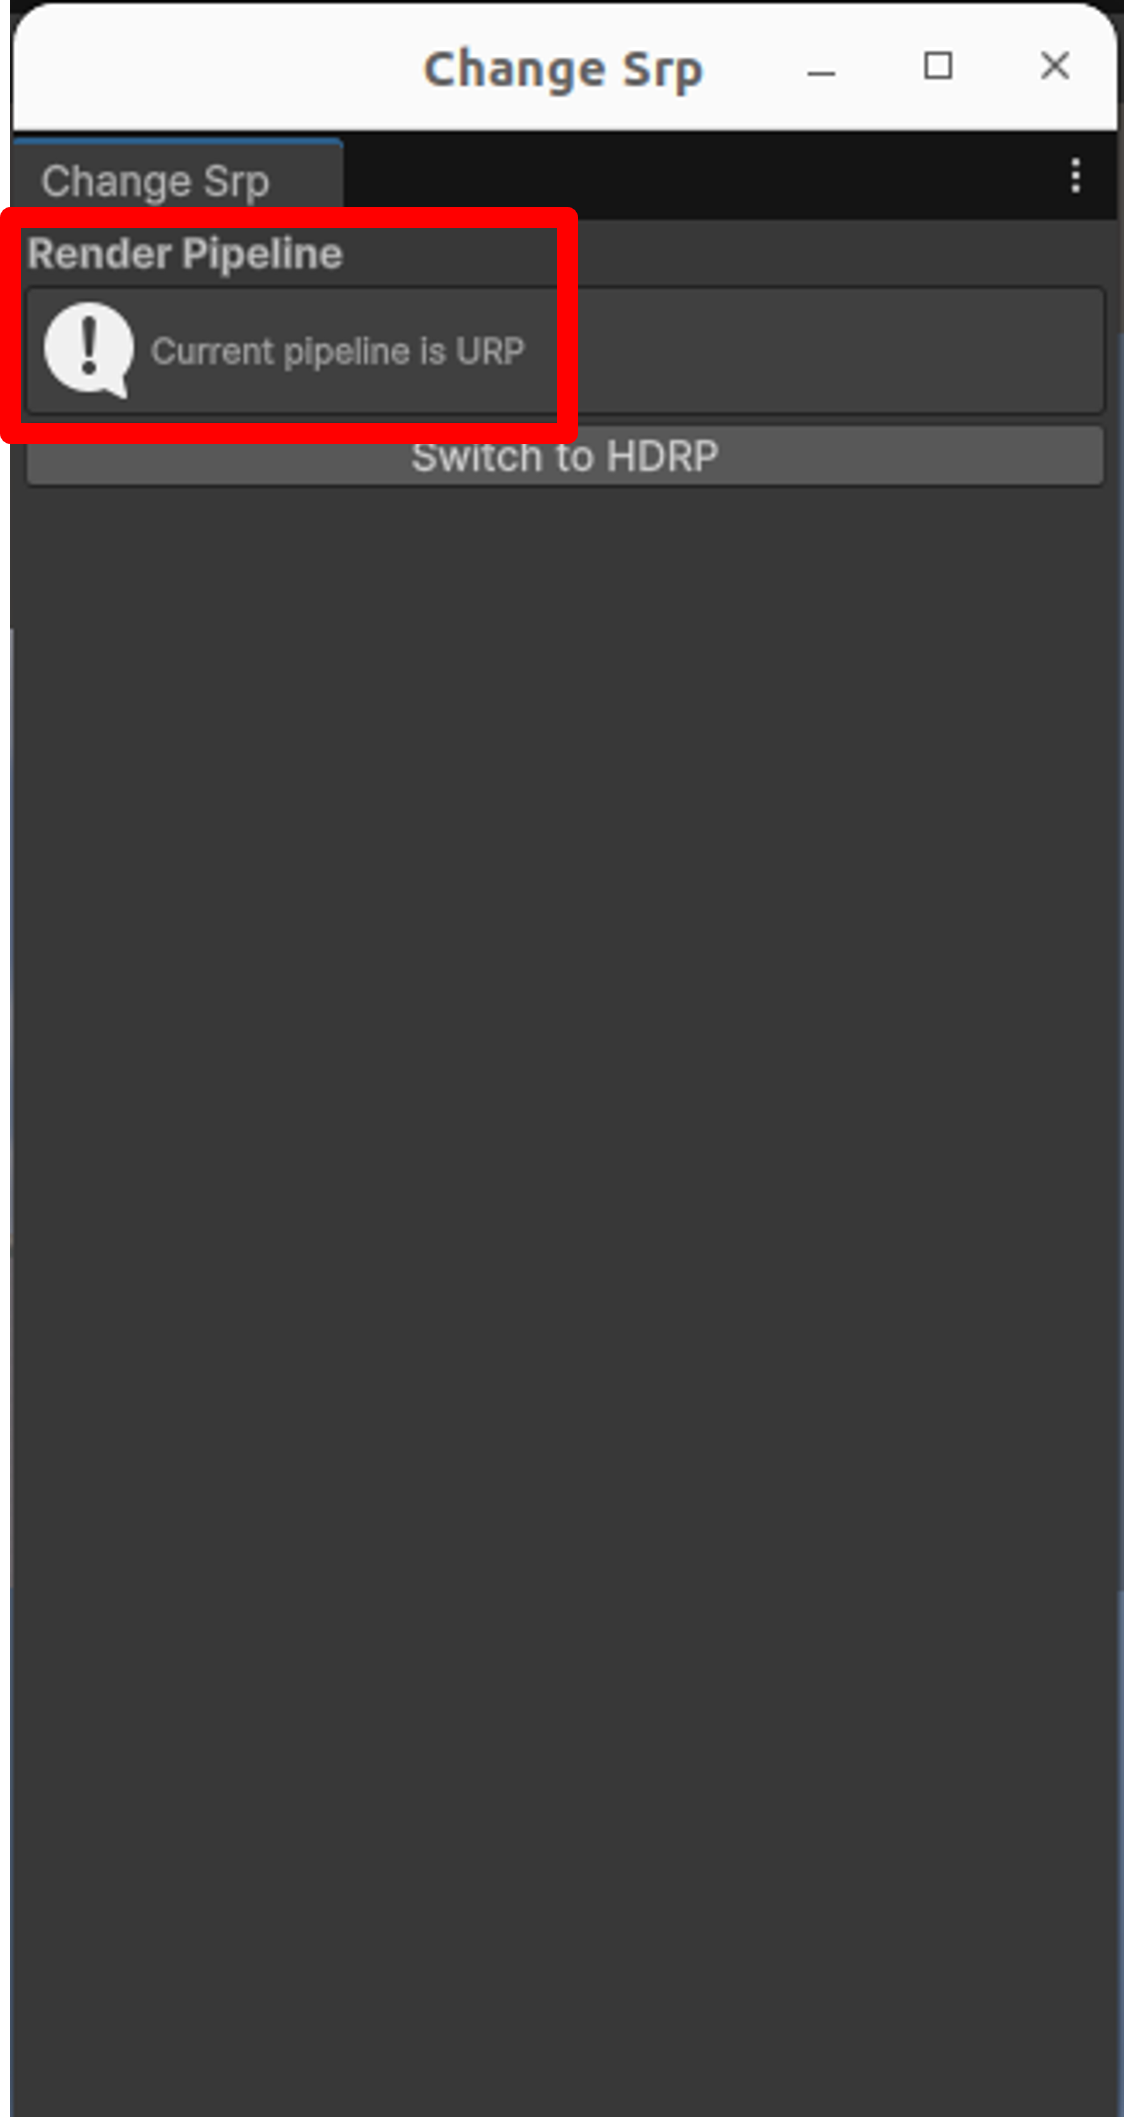
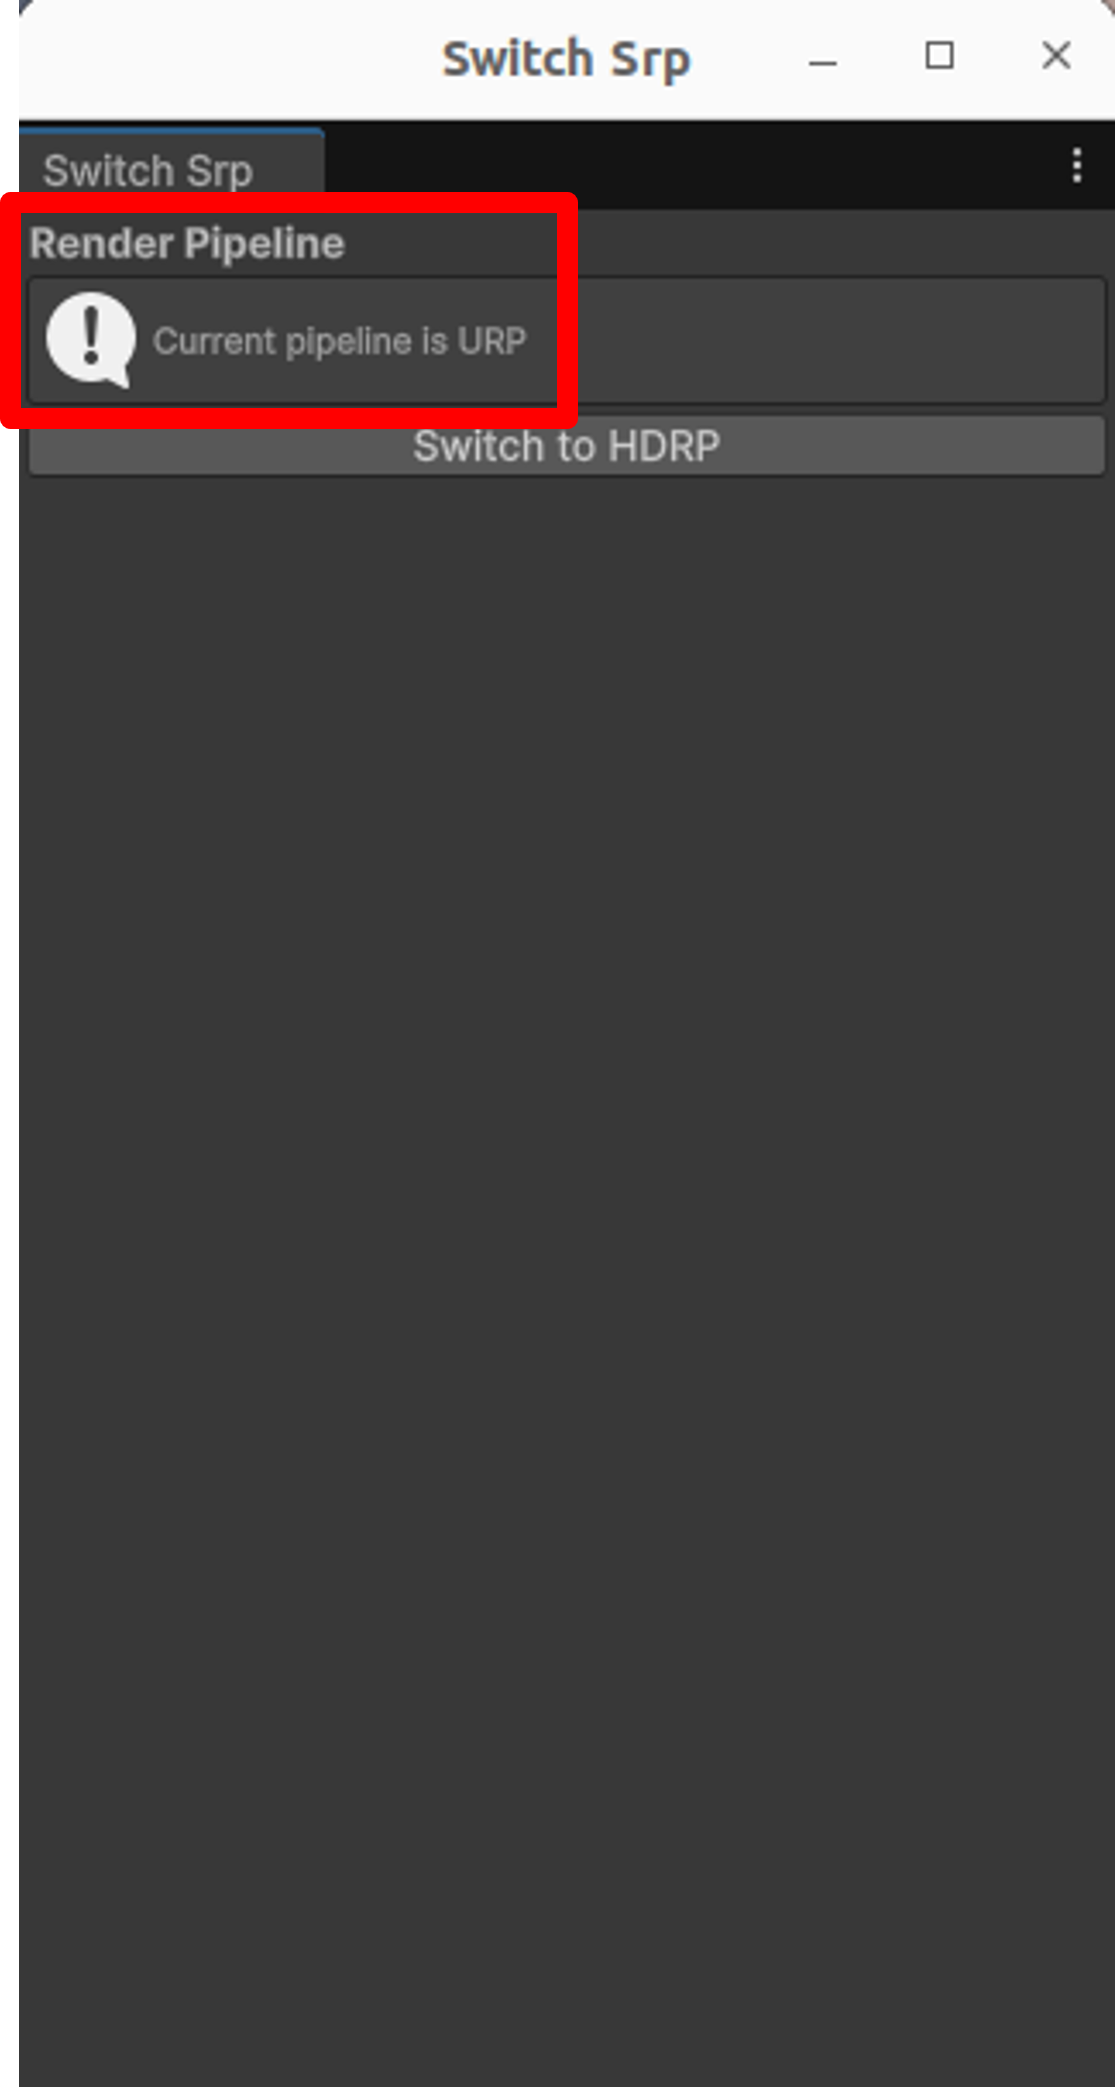
replace deprecated API with new API

Changed region(s): [[0.0, 0.0, 1.0, 1.0], [0.9758, 0.1557, 1.0, 1.0]]

diff --git a/Assets/Awsim/Scripts/Editor/ChangeSrp.cs b/Assets/Awsim/Scripts/Editor/ChangeSrp.cs
@@ -1,21 +1,28 @@
 using UnityEditor;
+using UnityEditor.Build;
 using UnityEngine;
 using UnityEngine.Rendering;
 using System.Diagnostics;
 using System.IO;
 
-public class ChangeSrp : EditorWindow
+/// <summary>
+/// Unity Editor window for switching between URP and HDRP render pipelines.
+/// This tool updates the RenderPipelineAsset, scripting define symbols,
+/// and optionally prompts for restarting the Unity Editor to apply changes.
+/// </summary>
+
+public class SwitchSrpEditorWindow : EditorWindow
 {
-    private static readonly string _urpSymbl = "URP";
+    private static readonly string _urpSymbol = "URP";
     private static readonly string _hdrpSymbol = "HDRP";
 
-    private static readonly string _urpAssetPath = "Assets/Awsim/Graphics/URP/New Universal Render Pipeline Asset.asset";
-    private static readonly string _hdrpAssetPath = "Assets/Awsim/Graphics/HDRP/HDRenderPipelineAsset.asset";
+    private static readonly string _urpAssetPath = "Assets/Awsim/Graphics/URP/DefaultUrpAsset.asset";
+    private static readonly string _hdrpAssetPath = "Assets/Awsim/Graphics/HDRP/DefaultHdrpAsset.asset";
 
-    [MenuItem("AWSIM/Change Srp")]
+    [MenuItem("AWSIM/Switch SRP")]
     public static void ShowWindow()
     {
-        GetWindow<ChangeSrp>("Change Srp");
+        GetWindow<SwitchSrpEditorWindow>("Switch Srp");
     }
 
     void OnGUI()
@@ -31,7 +38,7 @@ public class ChangeSrp : EditorWindow
         {
             if (GUILayout.Button("Switch to URP"))
             {
-                Switch(_urpAssetPath, _urpSymbl);
+                Switch(_urpAssetPath, _urpSymbol);
             }
         }
         else
@@ -57,13 +64,16 @@ public class ChangeSrp : EditorWindow
         var asset = AssetDatabase.LoadAssetAtPath<RenderPipelineAsset>(pipelineAssetPath);
         if (asset == null)
         {
+            UnityEngine.Debug.LogError($"RenderPipelineAsset not found at: {pipelineAssetPath}");
             return;
         }
 
         GraphicsSettings.defaultRenderPipeline = asset;
 
-        string currentDefines = PlayerSettings.GetScriptingDefineSymbolsForGroup(EditorUserBuildSettings.selectedBuildTargetGroup);
-        var defineList = new System.Collections.Generic.List<string>(currentDefines.Split(';'));
+        var target = NamedBuildTarget.FromBuildTargetGroup(EditorUserBuildSettings.selectedBuildTargetGroup);
+
+        PlayerSettings.GetScriptingDefineSymbols(target, out string[] defines);
+        var defineList = new System.Collections.Generic.List<string>(defines);
 
         defineList.RemoveAll(d => d == "URP" || d == "HDRP");
 
@@ -72,12 +82,11 @@ public class ChangeSrp : EditorWindow
             defineList.Add(defineSymbol);
         }
 
-        string newDefines = string.Join(";", defineList);
-        PlayerSettings.SetScriptingDefineSymbolsForGroup(EditorUserBuildSettings.selectedBuildTargetGroup, newDefines);
+        PlayerSettings.SetScriptingDefineSymbols(target, defineList.ToArray());
 
         bool restart = EditorUtility.DisplayDialog(
             "Restart Unity",
-            "Render pipeline has been switched to " + defineSymbol + ".\nWould you like to restart the Unity Editor now?",
+            $"Render pipeline has been switched to {defineSymbol}.\nWould you like to restart the Unity Editor now?",
             "Yes", "No"
         );
 
@@ -86,5 +95,5 @@ public class ChangeSrp : EditorWindow
             EditorApplication.OpenProject(System.IO.Directory.GetCurrentDirectory());
         }
     }
-    
+
 }
